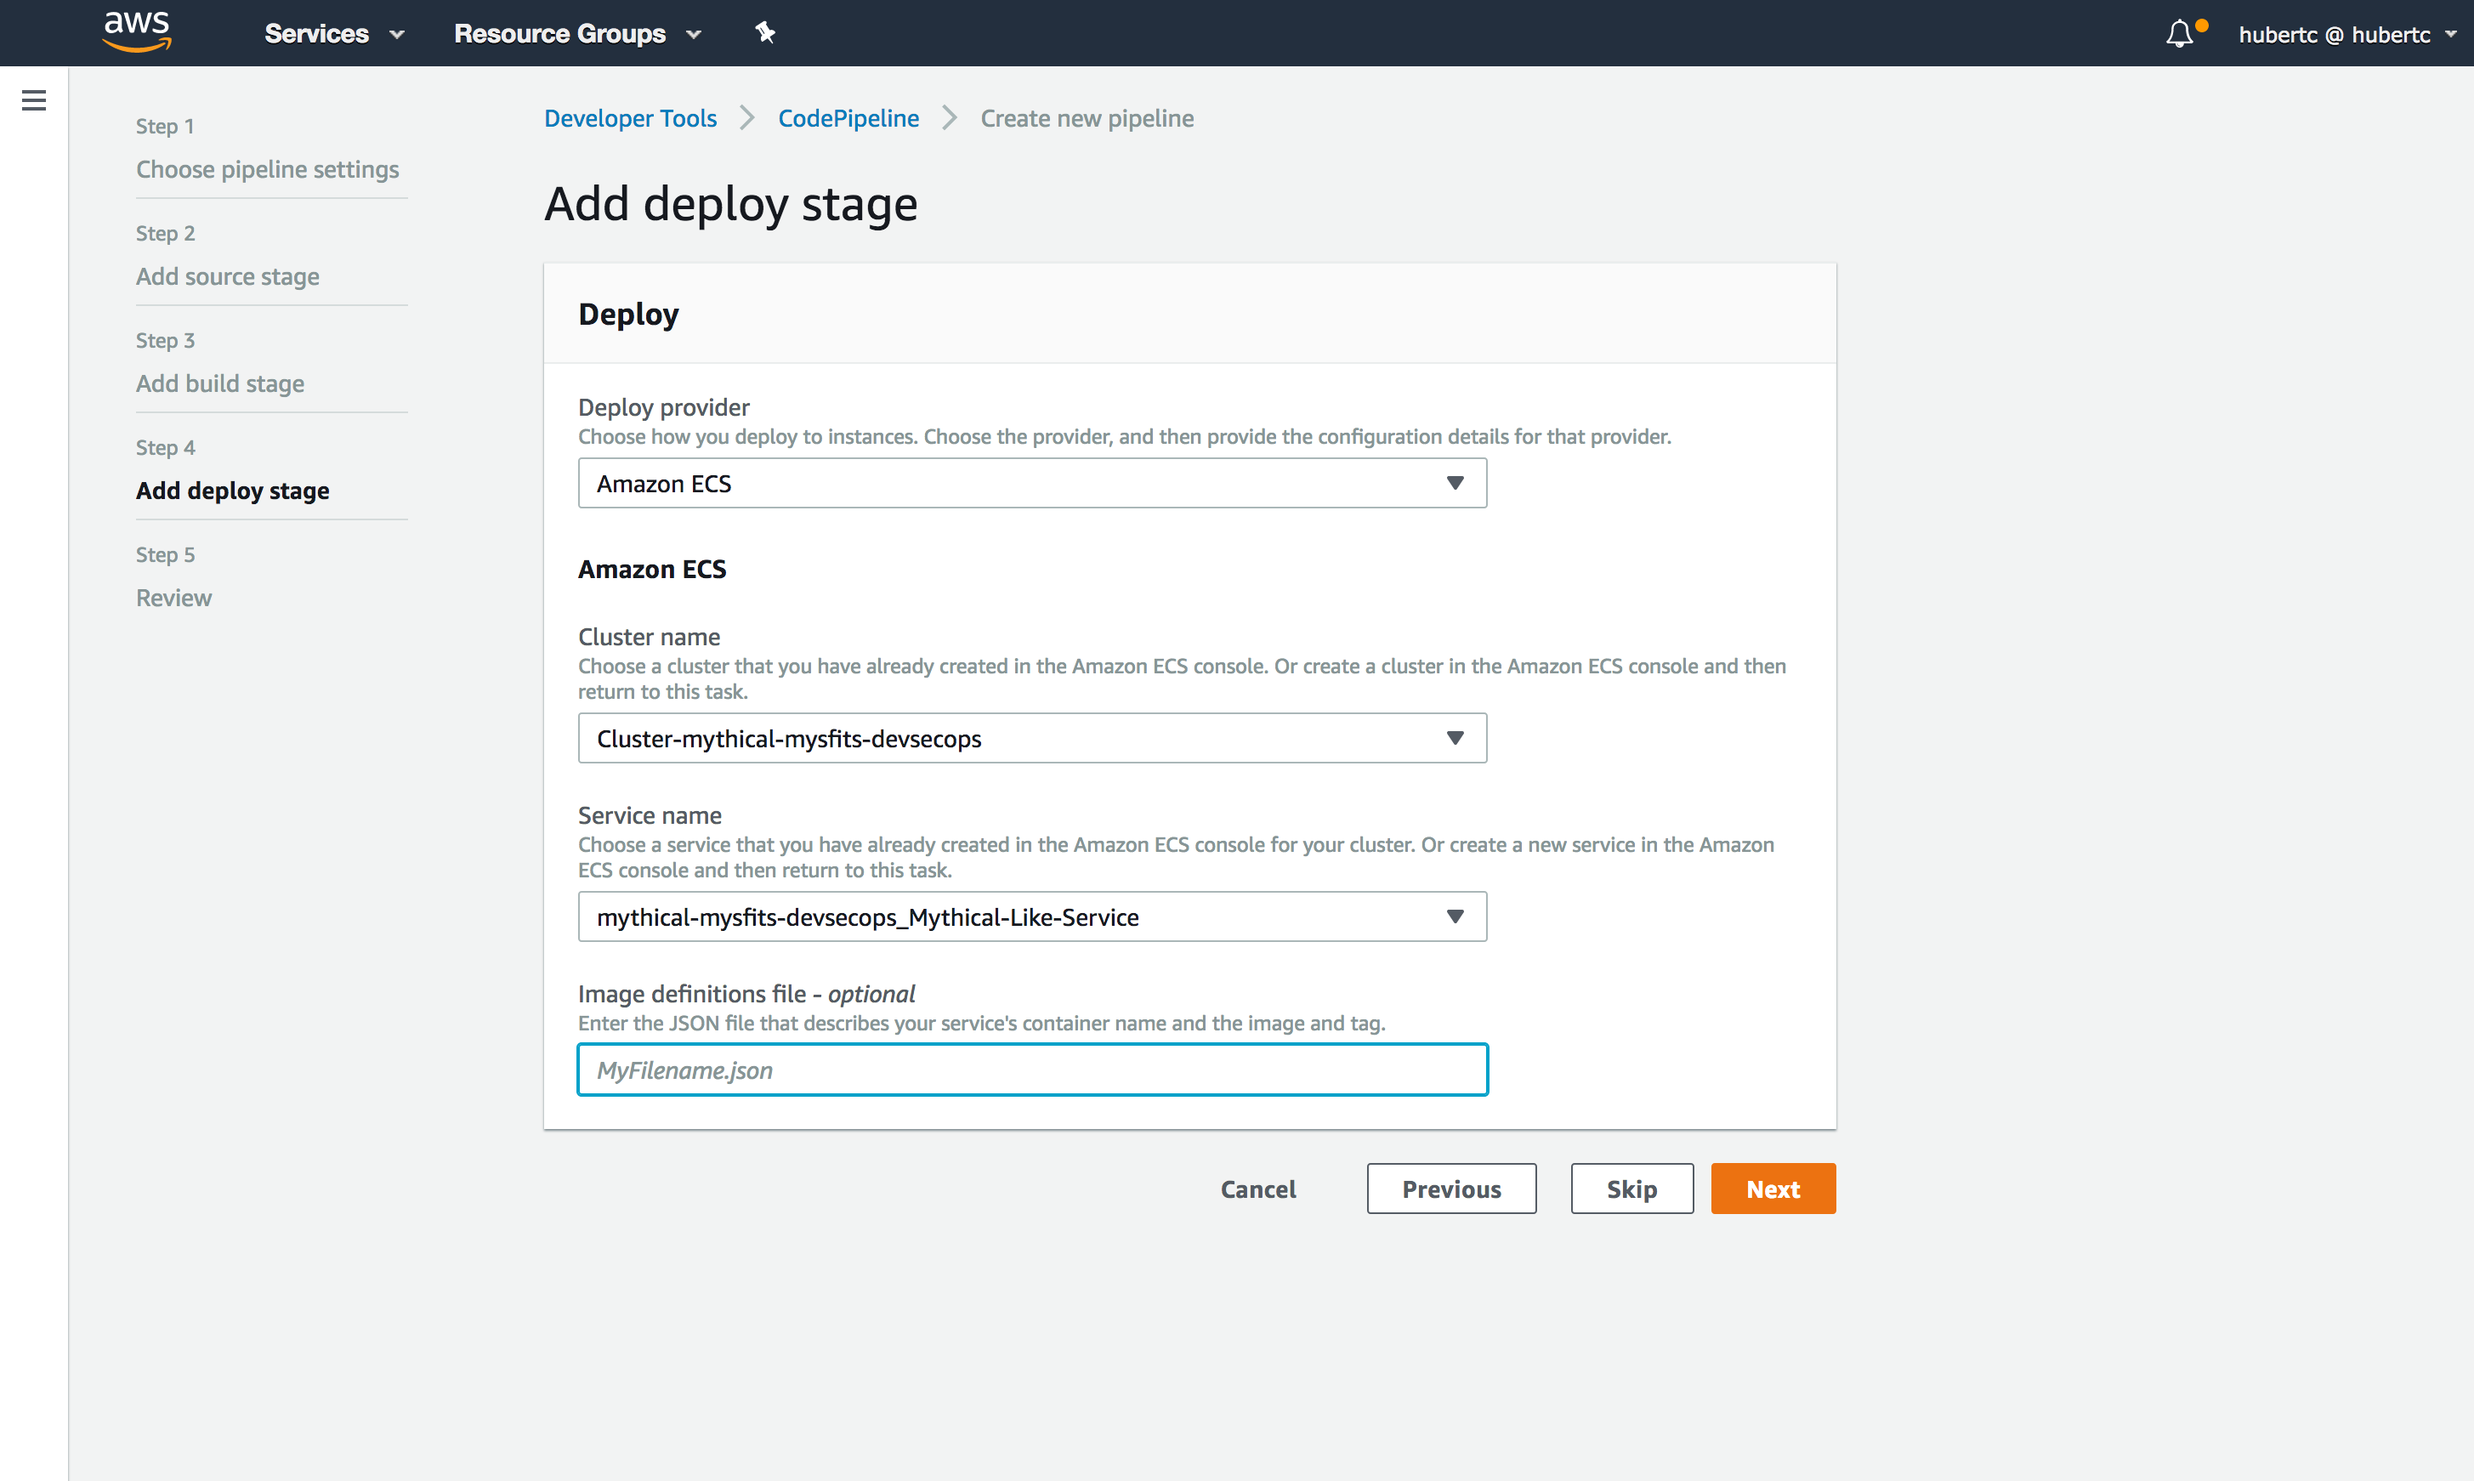
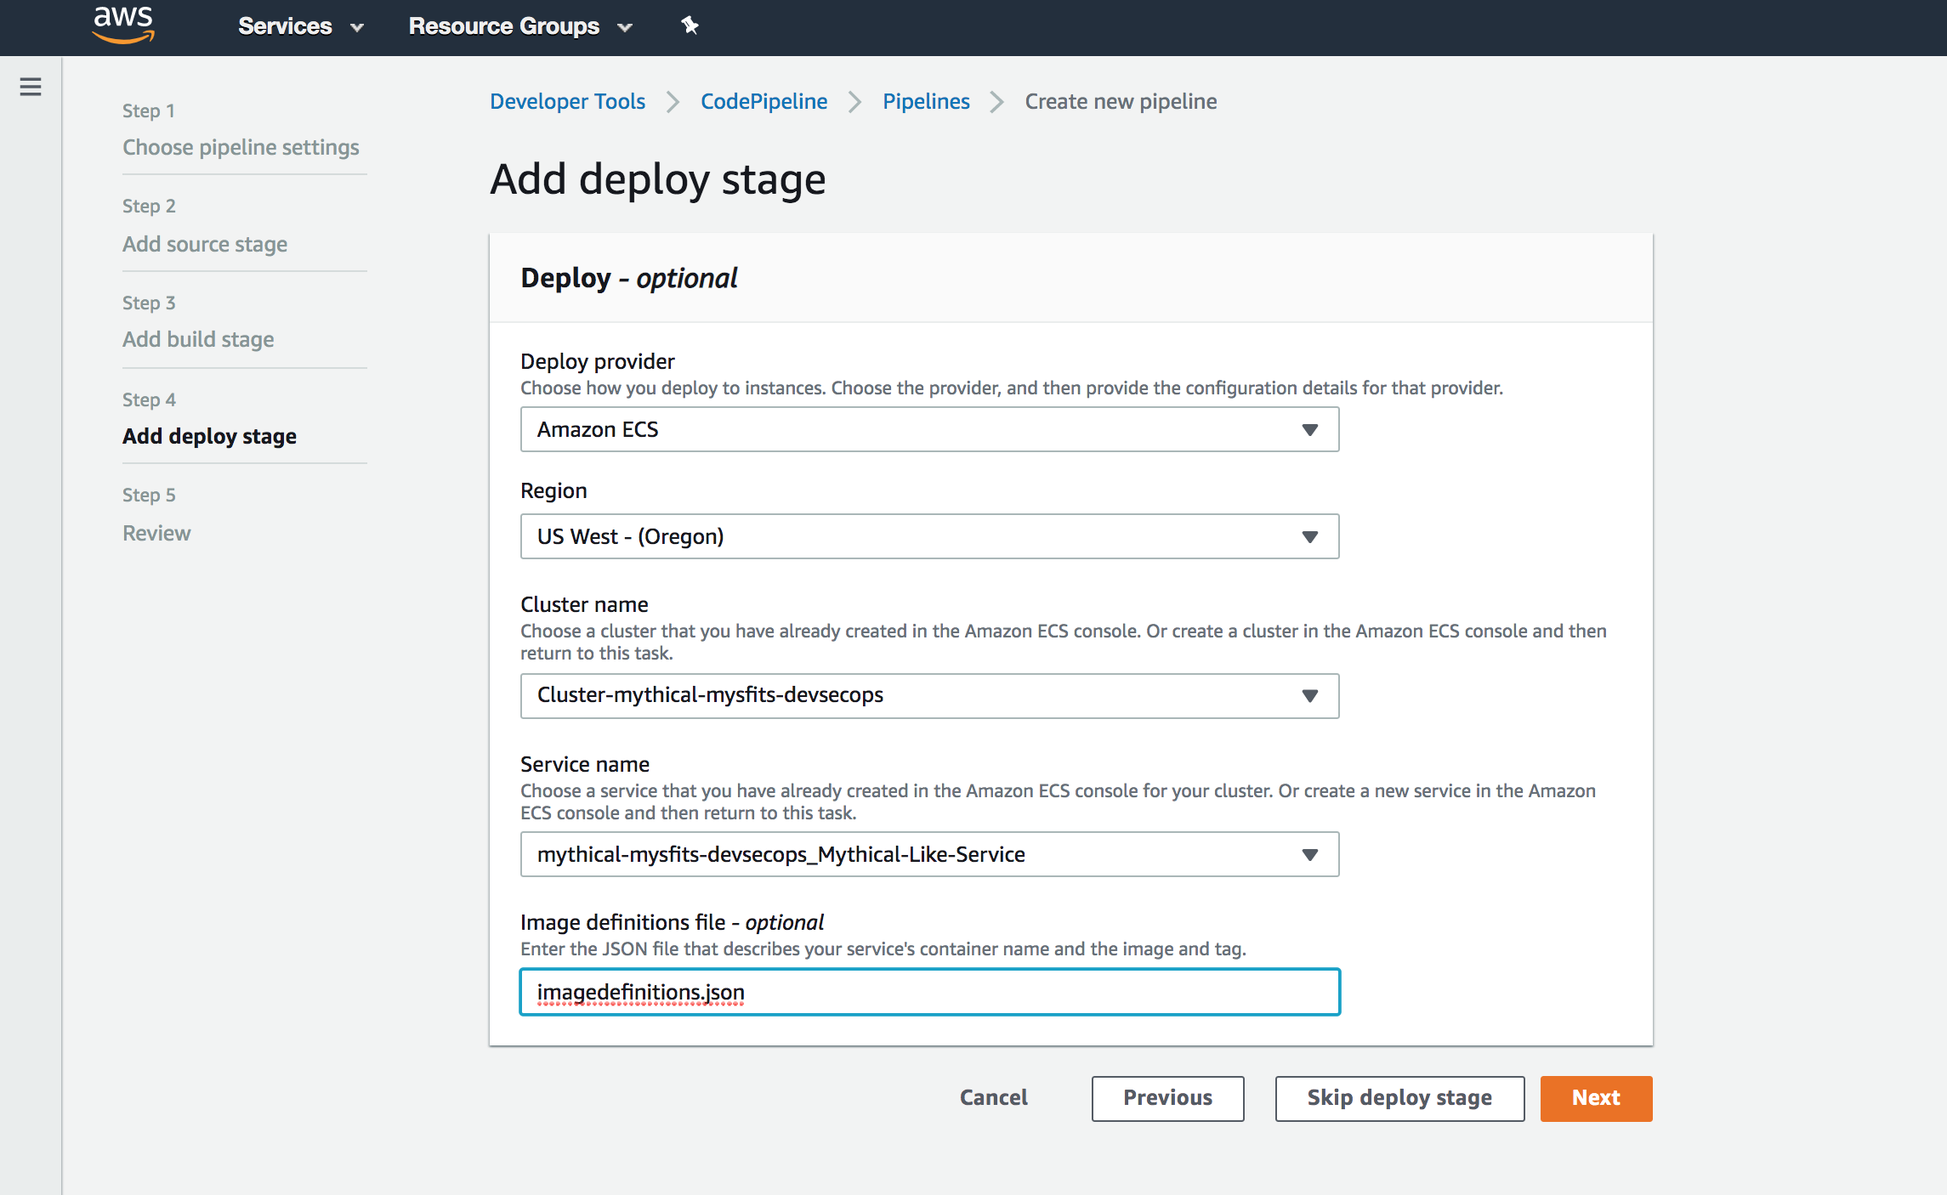
Lab3 updates

diff --git a/workshop-2/Lab-3/README.md b/workshop-2/Lab-3/README.md
@@ -87,7 +87,10 @@ On the following pages, enter the following details:
 
 - Pipeline name: `prod-like-service` - *This is a production pipeline, so we'll prefix with prod*
 - Service role: **Existing service role** - *A service role was automatically created for you via CFN*
-- Role name: Choose **CFNStackName-CodeBuildServiceRole** - *Look for the service role that has the name of the CFN stack you created previously*
+- Role name: Choose **CFNStackName-CodePipelineServiceRole** - *Look for the service role that has the name of the CFN stack you created previously*
+
+**Click Advanced Settings**
+
 - Artifact store: Choose **Custom location** - *An artifact bucket was created for you via CFN*
 - Bucket: Choose **CFNStackName-mythicalartifactbucket** - *Look for the artifact bucket that has the name of the CFN stack you created previously. Note that there are two buckets that were created for you. Look for the one that says mythicalartifactbucket*
 
@@ -109,6 +112,7 @@ Click **Next**.
 **Add build stage:**
 
 - Build provider: **AWS CodeBuild**
+- Region: **Choose the region you are in. It will say in the top right hand corner of the console**
 - Project name: Click **Create a new build project**
 
 A new window should appear. The values here are almost identical to that of Lab-2 when you created your dev CodeBuild project, with the exception that the name is now prod-like-service-build and the buildspec will be buildspec_prod.yml. See Lab-2 instructions for detailed screenshots.
@@ -118,10 +122,10 @@ A new window should appear. The values here are almost identical to that of Lab-
 - Project name: `prod-like-service-build` 
 - Environment Image: Select **Managed Image** - *There are two options. You can either use a predefined Docker container that is curated by CodeBuild, or you can upload your own if you want to customize dependencies etc. to speed up build time*
 - Operating System: Select **Ubuntu** - *This is the OS that will run your build*
-- Runtime: Select **Docker** - *Each image has specific versions of software installed. See [Docker Images Provided by AWS CodeBuild](https://docs.aws.amazon.com/codebuild/latest/userguide/build-env-ref-available.html)*
-- Runtime version: Select **aws/codebuild/docker:17.09.0** - *This will default to the latest*
+- Runtime: Select **Standard** - *Each image has specific versions of software installed. See [Docker Images Provided by AWS CodeBuild](https://docs.aws.amazon.com/codebuild/latest/userguide/build-env-ref-available.html)*
+- Image: **aws/codebuild/standard:1.0**
 - Image version: **Leave as is**
-- Privileged: **Leave as is** - *You can't actually change anything here. In order for to run Docker inside a Docker container, you need to have elevated privileges*
+- Privileged: **Ensure Checked** - *In order for to run Docker inside a Docker container, you need to have elevated privileges*
 - Service role: **Existing service role** - *A service role was automatically created for you via CFN*
 - Role name: Choose **CFNStackName-CodeBuildServiceRole** - *Look for the service role that has the name of the CFN stack you created previously. It will be in the form of **CFNStackName**-CodeBuildServiceRole*
 
@@ -148,8 +152,9 @@ Click **Next**.
 **Add deploy stage:**
 
 - Deployment provider: Select **Amazon ECS** - *This is the mechanism we're choosing to deploy with. CodePipeline also supports several other deployment options, but we're using ECS directly in this case.*
+- Region: **Select the region you're in**
 - Cluster Name: Select your ECS Cluster. In my case, **Cluster-mythical-mysfits-devsecops** - *This is the cluster that CodePipeline will deploy into.*
-- Service Name: Enter `CFNStackName-Mythical-like-service` - *Name the CloudFormation stack that you're going to create/update*
+- Service Name: Enter `CFNStackName-Mythical-Like-Service` - *Name the CloudFormation stack that you're going to create/update*
 - Image definitions file - *optional*: Enter `imagedefinitions.json` - *This is the file we created within the buildspec_prod.yml file earlier*
 
 ![CodePipeline ECS](images/cp-deploy-step.png)
